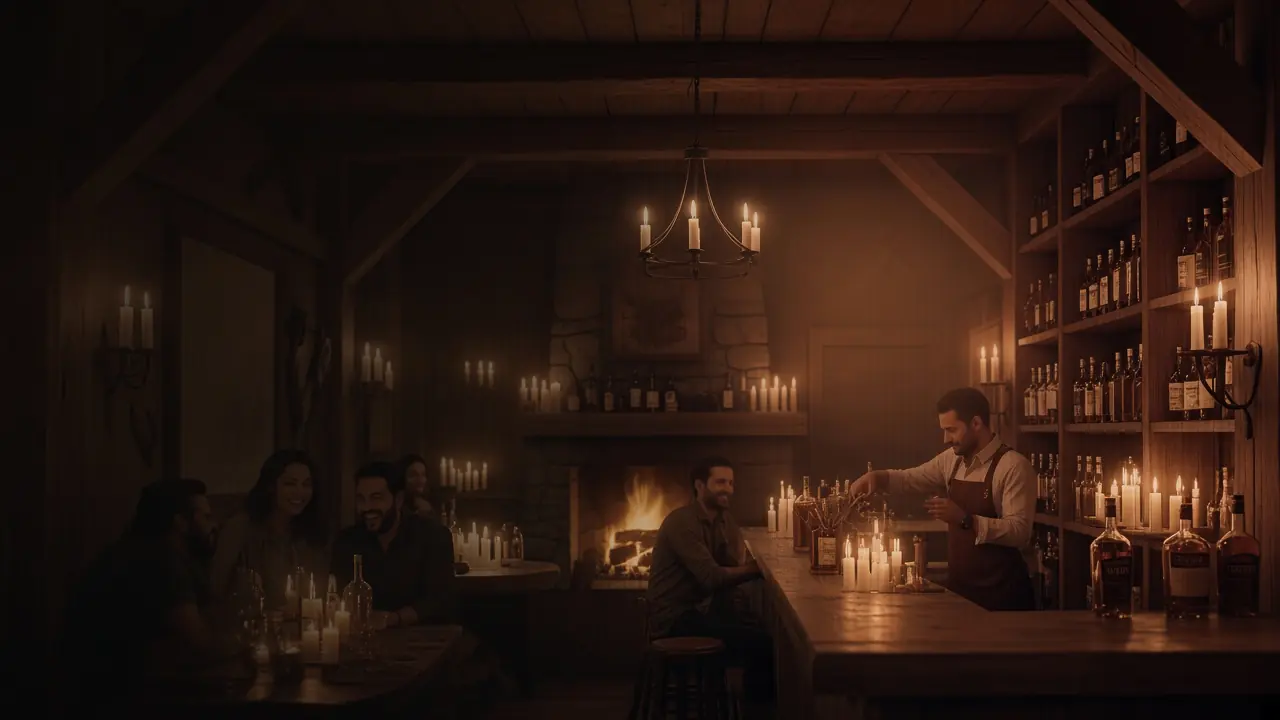
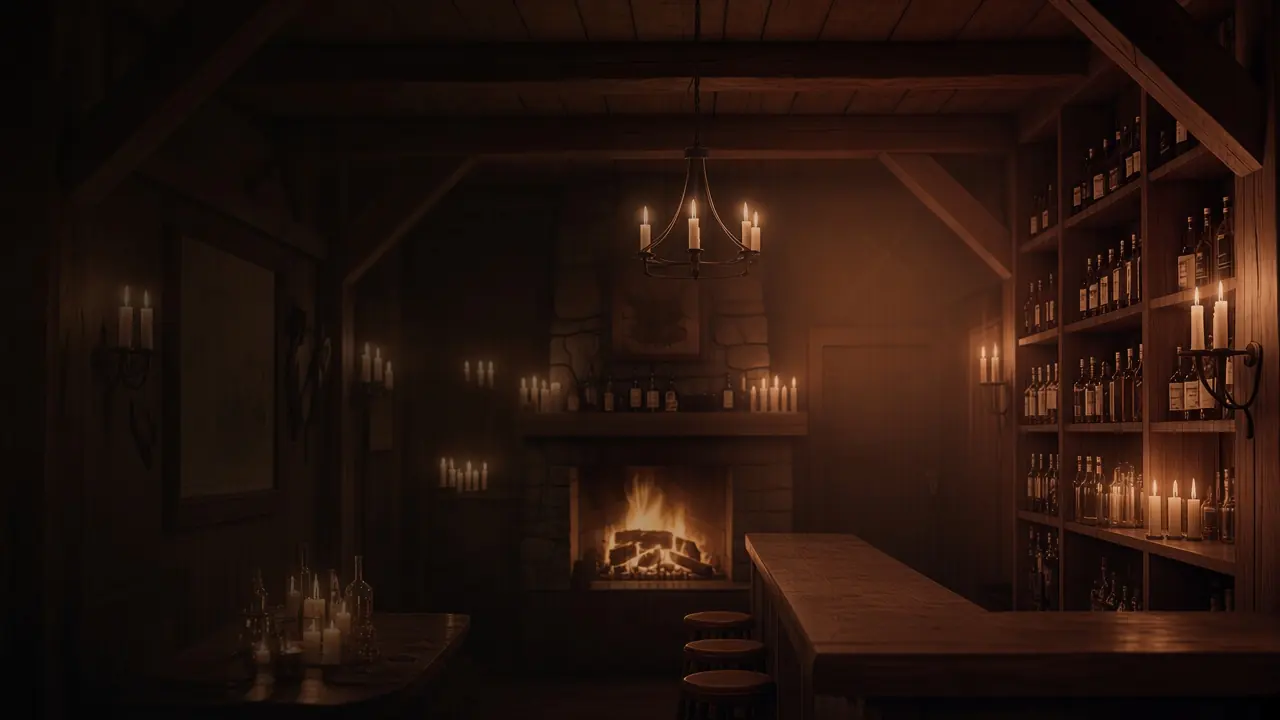
Oscurece la firma y el conteo, y vacía la foto del hero

diff --git a/app/src/pages/Home.module.css b/app/src/pages/Home.module.css
@@ -123,18 +123,19 @@
 	display: flex;
 	align-items: baseline;
 	gap: 0.55rem;
-	color: #efe4d2;
-	font-size: 0.98rem;
+	color: #f7f1e4;
+	font-size: 1.05rem;
+	font-weight: 700;
 }
 
 .statNum,
 .statInf {
 	font-family: var(--font-display);
 	font-style: italic;
-	font-weight: 560;
-	font-size: 1.85rem;
+	font-weight: 650;
+	font-size: 1.95rem;
 	line-height: 1;
-	color: var(--color-text);
+	color: #fff8ee;
 }
 
 .seccion {
@@ -147,7 +148,7 @@
 	margin: 0 auto;
 }
 
-.seccion h2 {
+.seccion > .interior > h2 {
 	max-width: 16ch;
 	font-size: clamp(2.4rem, 5vw, 4.1rem);
 	font-weight: 560;
@@ -156,7 +157,7 @@
 	color: var(--color-text);
 }
 
-.seccion h2 em {
+.seccion > .interior > h2 em {
 	font-style: italic;
 	font-weight: 500;
 }
@@ -299,15 +300,17 @@
 
 .cuentaLibro {
 	margin: 0.7rem 0 1.6rem;
-	color: var(--color-text-muted);
-	font-size: 1.05rem;
+	color: #f7f1e4;
+	font-size: 1.15rem;
+	font-weight: 700;
 }
 
 .cuentaLibro span {
 	font-family: var(--font-display);
 	font-style: italic;
-	font-size: 1.35rem;
-	color: var(--color-text);
+	font-weight: 650;
+	font-size: 1.6rem;
+	color: #fff8ee;
 }
 
 .contrato h2 {

diff --git a/app/src/components/LibroDeVisitas.module.css b/app/src/components/LibroDeVisitas.module.css
@@ -197,7 +197,7 @@
 	font-weight: 700;
 	letter-spacing: 0.16em;
 	text-transform: uppercase;
-	color: #5f6840;
+	color: #3e4a24;
 }
 
 .hoja blockquote {
@@ -235,7 +235,7 @@
 
 .cuando {
 	font-size: 0.78rem;
-	color: #6e6254;
+	color: #4a3f34;
 }
 
 .estado {
@@ -287,13 +287,13 @@
 	box-shadow: 0 10px 22px rgba(0, 0, 0, 0.28);
 }
 
-.firma h2 {
+.hoja.firma h2 {
 	max-width: 12ch;
 	font-size: clamp(2rem, 3vw, 2.7rem);
-	font-weight: 560;
+	font-weight: 600;
 	letter-spacing: -0.03em;
 	line-height: 1.02;
-	color: var(--color-ink);
+	color: #2a1d16;
 }
 
 .lede,
@@ -341,7 +341,7 @@
 }
 
 .firma textarea::placeholder {
-	color: #8d8474;
+	color: #5c4e40;
 	font-style: italic;
 }
 
@@ -376,7 +376,7 @@
 .contador {
 	font-variant-numeric: tabular-nums;
 	font-size: 0.85rem;
-	color: #6e6254;
+	color: #4a3f34;
 	white-space: nowrap;
 }
 
